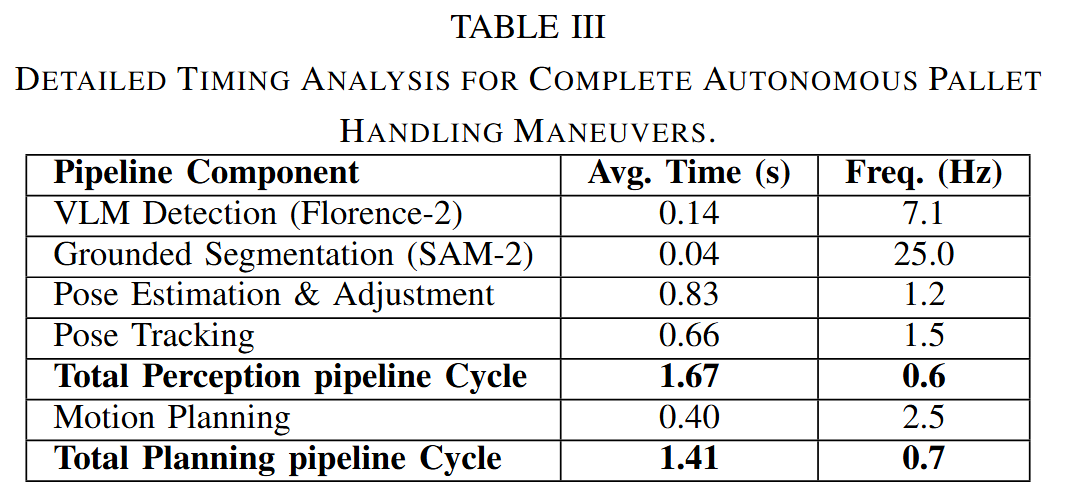
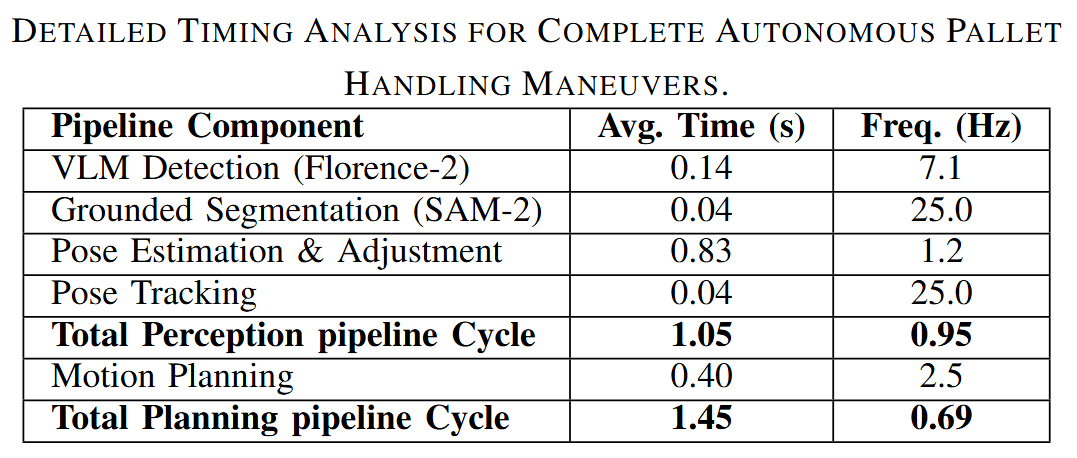
test

diff --git a/index.html b/index.html
@@ -218,7 +218,7 @@ Experimental validation on the ADAPT autonomous forklift platform demonstrates i
       <h2 class="title is-3">Test Datasets</h2>
       <!-- Sunny Dataset Carousel -->
       <h3 class="title is-4" style="margin-top:1.5rem">Sunny</h3>
-  <div id="sunny-carousel" class="carousel results-carousel dataset-carousel">
+      <div id="sunny-carousel" class="carousel results-carousel dataset-carousel" data-category="sunny">
         <div class="item"><img src="./static/datasets/sunny/sunny1.jpg" alt="Sunny 1"><div class="subtitle has-text-centered">Sunny 1</div></div>
         <div class="item"><img src="./static/datasets/sunny/sunny2.jpg" alt="Sunny 2"><div class="subtitle has-text-centered">Sunny 2</div></div>
         <div class="item"><img src="./static/datasets/sunny/sunny3.jpg" alt="Sunny 3"><div class="subtitle has-text-centered">Sunny 3</div></div>
@@ -265,7 +265,7 @@ Experimental validation on the ADAPT autonomous forklift platform demonstrates i
 
       <!-- Snowy Dataset Carousel -->
       <h3 class="title is-4" style="margin-top:2rem">Snowy</h3>
-  <div id="snowy-carousel" class="carousel results-carousel dataset-carousel">
+      <div id="snowy-carousel" class="carousel results-carousel dataset-carousel" data-category="snowy">
         <div class="item"><img src="./static/datasets/snowy/snow1.jpg" alt="Snow 1"><div class="subtitle has-text-centered">Snow 1</div></div>
         <div class="item"><img src="./static/datasets/snowy/snow2.jpg" alt="Snow 2"><div class="subtitle has-text-centered">Snow 2</div></div>
         <div class="item"><img src="./static/datasets/snowy/snow3.png" alt="Snow 3"><div class="subtitle has-text-centered">Snow 3</div></div>
@@ -311,7 +311,7 @@ Experimental validation on the ADAPT autonomous forklift platform demonstrates i
 
       <!-- Dark Dataset Carousel -->
       <h3 class="title is-4" style="margin-top:2rem">Dark</h3>
-  <div id="dark-carousel" class="carousel results-carousel dataset-carousel">
+      <div id="dark-carousel" class="carousel results-carousel dataset-carousel" data-category="dark">
         <div class="item"><img src="./static/datasets/dark/dark1.jpg" alt="Dark 1"><div class="subtitle has-text-centered">Dark 1</div></div>
         <div class="item"><img src="./static/datasets/dark/dark2.jpg" alt="Dark 2"><div class="subtitle has-text-centered">Dark 2</div></div>
         <div class="item"><img src="./static/datasets/dark/dark3.jpg" alt="Dark 3"><div class="subtitle has-text-centered">Dark 3</div></div>
@@ -328,7 +328,7 @@ Experimental validation on the ADAPT autonomous forklift platform demonstrates i
 
       <!-- Occlusion Dataset Carousel -->
       <h3 class="title is-4" style="margin-top:2rem">Occlusion</h3>
-  <div id="occlusion-carousel" class="carousel results-carousel dataset-carousel">
+      <div id="occlusion-carousel" class="carousel results-carousel dataset-carousel" data-category="occlusion">
         <div class="item"><img src="./static/datasets/occlusion/occ1.png" alt="Occlusion 1"><div class="subtitle has-text-centered">Occlusion 1</div></div>
         <div class="item"><img src="./static/datasets/occlusion/occ2.png" alt="Occlusion 2"><div class="subtitle has-text-centered">Occlusion 2</div></div>
         <div class="item"><img src="./static/datasets/occlusion/occ3.png" alt="Occlusion 3"><div class="subtitle has-text-centered">Occlusion 3</div></div>
@@ -391,14 +391,14 @@ Experimental validation on the ADAPT autonomous forklift platform demonstrates i
                   </figure>
                 </div>
                 <!-- Table 2 -->
-                <div class="column is-12-tablet is-6-desktop">
+                <!-- <div class="column is-12-tablet is-6-desktop">
                   <figure class="has-text-centered">
                     <img src="./static/images/table2.png" alt="6D pose accuracy benchmark" style="width:100%;height:auto;" />
                     <figcaption class="subtitle is-size-6 has-text-justified" style="margin-top:0.75rem;">
                       6D pose accuracy (YCB-Video): zero-shot foundation model reaches 0.91 ADD / 0.97 ADD-S, surpassing prior specialized RGB-D pipelines (0.86 / 0.92) without task-specific optimization—eliminating costly data collection and retraining for new objects or environments.
                     </figcaption>
                   </figure>
-                </div>
+                </div> -->
                 <!-- Table 3 -->
                 <div class="column is-12-tablet is-6-desktop">
                   <figure class="has-text-centered">
@@ -413,7 +413,7 @@ Experimental validation on the ADAPT autonomous forklift platform demonstrates i
                   <figure class="has-text-centered">
                     <img src="./static/images/table4.png" alt="Runtime performance breakdown" style="width:100%;height:auto;" />
                     <figcaption class="subtitle is-size-6 has-text-justified" style="margin-top:0.75rem;">
-                      Runtime profile: full language-to-pose cycle ≈1.67 s. Florence-2 detection 7.1 Hz; SAM-2 segmentation 25.0 Hz; pose estimation + geometric adjustment 1.2 Hz (primary bottleneck) yet sufficient for typical forklift approach dynamics.
+                      Runtime profile: full language-to-pose cycle ≈1.05 s. Florence-2 detection 7.1 Hz; SAM-2 segmentation 25.0 Hz; pose estimation + geometric adjustment 1.2 Hz (primary bottleneck) yet sufficient for typical forklift approach dynamics.
                     </figcaption>
                   </figure>
                 </div>
@@ -527,7 +527,7 @@ Experimental validation on the ADAPT autonomous forklift platform demonstrates i
                   keywords = {Language-driven object detection, Pose estimation, Grasping, Trajectory optimization},
                   }</code></pre>
     </div>
-</section>
+  </section>
 <!--End BibTex citation -->
 
 
@@ -566,4 +566,127 @@ Experimental validation on the ADAPT autonomous forklift platform demonstrates i
     <!-- End of Statcounter Code -->
 
   </body>
-  </html>
+  <script>
+// Improved prompt display logic
+(function() {
+  const categories = ['sunny','snowy','dark','occlusion'];
+  const promptCache = {};
+  const autoOpenAll = false; // set true if you want every list open by default
+
+  function parsePrompts(text){
+    const map = {};
+    let current = null;
+    text.replace(/^\uFEFF/, ''); // remove BOM if present
+    text.split(/\r?\n/).forEach(raw=>{
+      const line = raw.trim();
+      if(!line) return;
+      if(/^[a-z]+[0-9]+:$/i.test(line)){
+        current = line.slice(0,-1);
+        map[current] = [];
+      } else if(line.startsWith('-') && current){
+        map[current].push(line.replace(/^-+\s*/,'').trim());
+      }
+    });
+    return map;
+  }
+
+  async function loadCategoryPrompts(cat){
+    if (promptCache[cat]) return promptCache[cat];
+    try {
+      const res = await fetch(`./static/datasets/${cat}/prompt.txt`, {cache:'no-cache'});
+      if(!res.ok) throw new Error(`HTTP ${res.status}`);
+      const text = await res.text();
+      const map = parsePrompts(text);
+      promptCache[cat] = map;
+      return map;
+    } catch(e){
+      console.warn('Prompt load failed for', cat, e);
+      promptCache[cat] = {};
+      return {};
+    }
+  }
+
+  function createPromptUI(prompts){
+    const wrapper = document.createElement('div');
+    wrapper.className='prompt-wrapper';
+
+    const preview = document.createElement('div');
+    preview.className='prompt-preview';
+    preview.textContent = prompts[0];
+
+    const toggle = document.createElement('button');
+    toggle.type='button';
+    toggle.className='prompt-toggle button is-light is-small';
+    toggle.textContent = 'Show all prompts';
+
+    const list = document.createElement('ul');
+    list.className='prompt-list';
+    prompts.forEach((p,i)=>{
+      if(i===0) return; // first is preview
+      const li=document.createElement('li');
+      li.textContent=p;
+      list.appendChild(li);
+    });
+
+    toggle.addEventListener('click', ()=>{
+      const open = list.classList.toggle('is-open');
+      toggle.textContent = open ? 'Hide prompts' : 'Show all prompts';
+    });
+
+    if (autoOpenAll && list.children.length){
+      list.classList.add('is-open');
+      toggle.textContent='Hide prompts';
+    }
+
+    wrapper.appendChild(preview);
+    if (list.children.length) {
+      wrapper.appendChild(toggle);
+      wrapper.appendChild(list);
+    }
+    return wrapper;
+  }
+
+  function attachFailureMessage(itemEl){
+    if(itemEl.querySelector('.prompt-wrapper')) return;
+    const fail = document.createElement('div');
+    fail.className='prompt-wrapper prompt-error';
+    fail.textContent='Prompts unavailable (open via local server or check prompt.txt).';
+    itemEl.appendChild(fail);
+  }
+
+  async function processCategory(cat){
+    const carousel = document.querySelector(`.dataset-carousel[data-category='${cat}']`);
+    if(!carousel) return;
+    const map = await loadCategoryPrompts(cat);
+    const items = carousel.querySelectorAll('.item');
+    items.forEach(item=>{
+      const img = item.querySelector('img');
+      if(!img) return;
+      const base = (img.getAttribute('src')||'').split('/').pop().split('.')[0]; // e.g. sunny1
+      const prompts = map[base];
+      if(prompts && prompts.length){
+        if(!item.querySelector('.prompt-wrapper')){
+          const ui = createPromptUI(prompts);
+            item.appendChild(ui);
+        }
+      } else {
+        // Only show error if fetch succeeded but no key OR global load fail
+        if(Object.keys(map).length === 0){
+          attachFailureMessage(item);
+        }
+      }
+    });
+  }
+
+  function init(){
+    categories.forEach(processCategory);
+  }
+
+  if (document.readyState === 'complete' || document.readyState === 'interactive'){
+    setTimeout(init, 50);
+  } else {
+    document.addEventListener('DOMContentLoaded', init);
+  }
+})();
+  </script>
+</html>

diff --git a/static/css/index.css b/static/css/index.css
@@ -183,6 +183,47 @@ body {
   line-height: 1.1;
 }
 
+.prompt-wrapper {
+  margin-top: 0.4rem;
+  text-align: left;
+  padding: 0.45rem 0.55rem;
+  background: #f5f5f5;
+  border-radius: 4px;
+  border: 1px solid #e3e3e3;
+  font-size: 0.7rem;
+  line-height: 1.15;
+}
+.prompt-wrapper.prompt-error {
+  background:#fff3f3;
+  border-color:#f0c4c4;
+  color:#a33;
+}
+.prompt-preview {
+  font-weight: 600;
+  margin-bottom: 0.35rem;
+}
+.prompt-toggle {
+  font-size: 0.6rem;
+  margin-bottom: 0.3rem;
+  padding: 0.25rem 0.55rem;
+  line-height: 1;
+}
+.prompt-list {
+  list-style: disc outside;
+  margin: 0 0 0 1rem;
+  padding: 0;
+  max-height: 0;
+  overflow: hidden;
+  transition: max-height .35s ease;
+  font-size: 0.6rem;
+}
+.prompt-list.is-open {
+  max-height: 360px;
+}
+.prompt-list li + li {
+  margin-top: 0.25rem;
+}
+
 @media (max-width: 768px) {
   .dataset-carousel .item { height: 300px; }
   .dataset-carousel .item img { max-height: 200px; }
